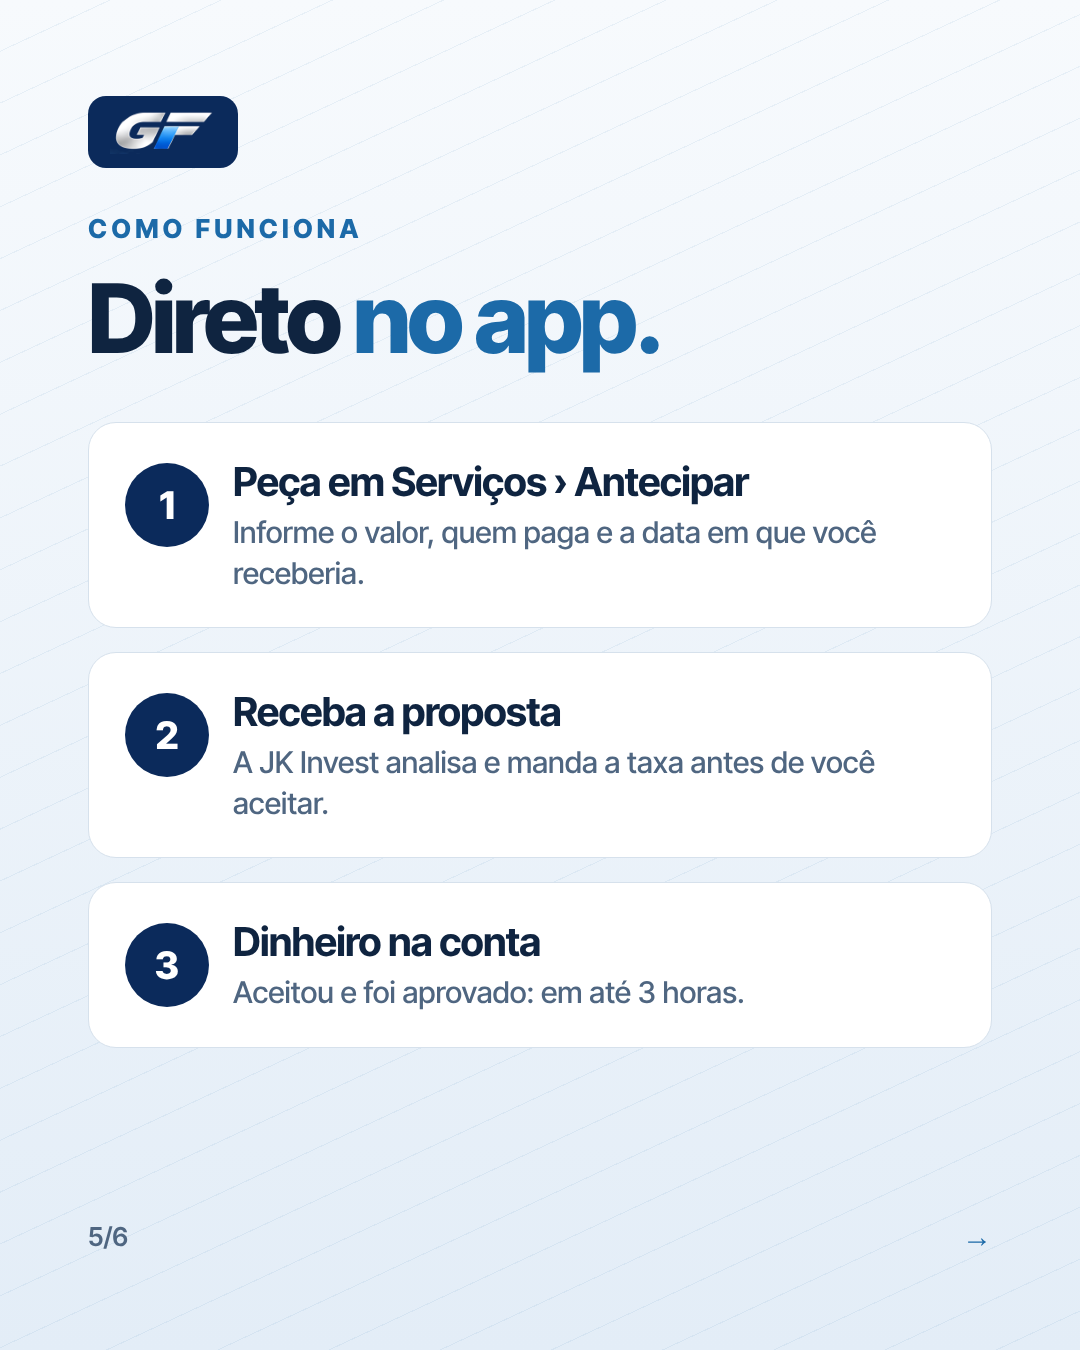
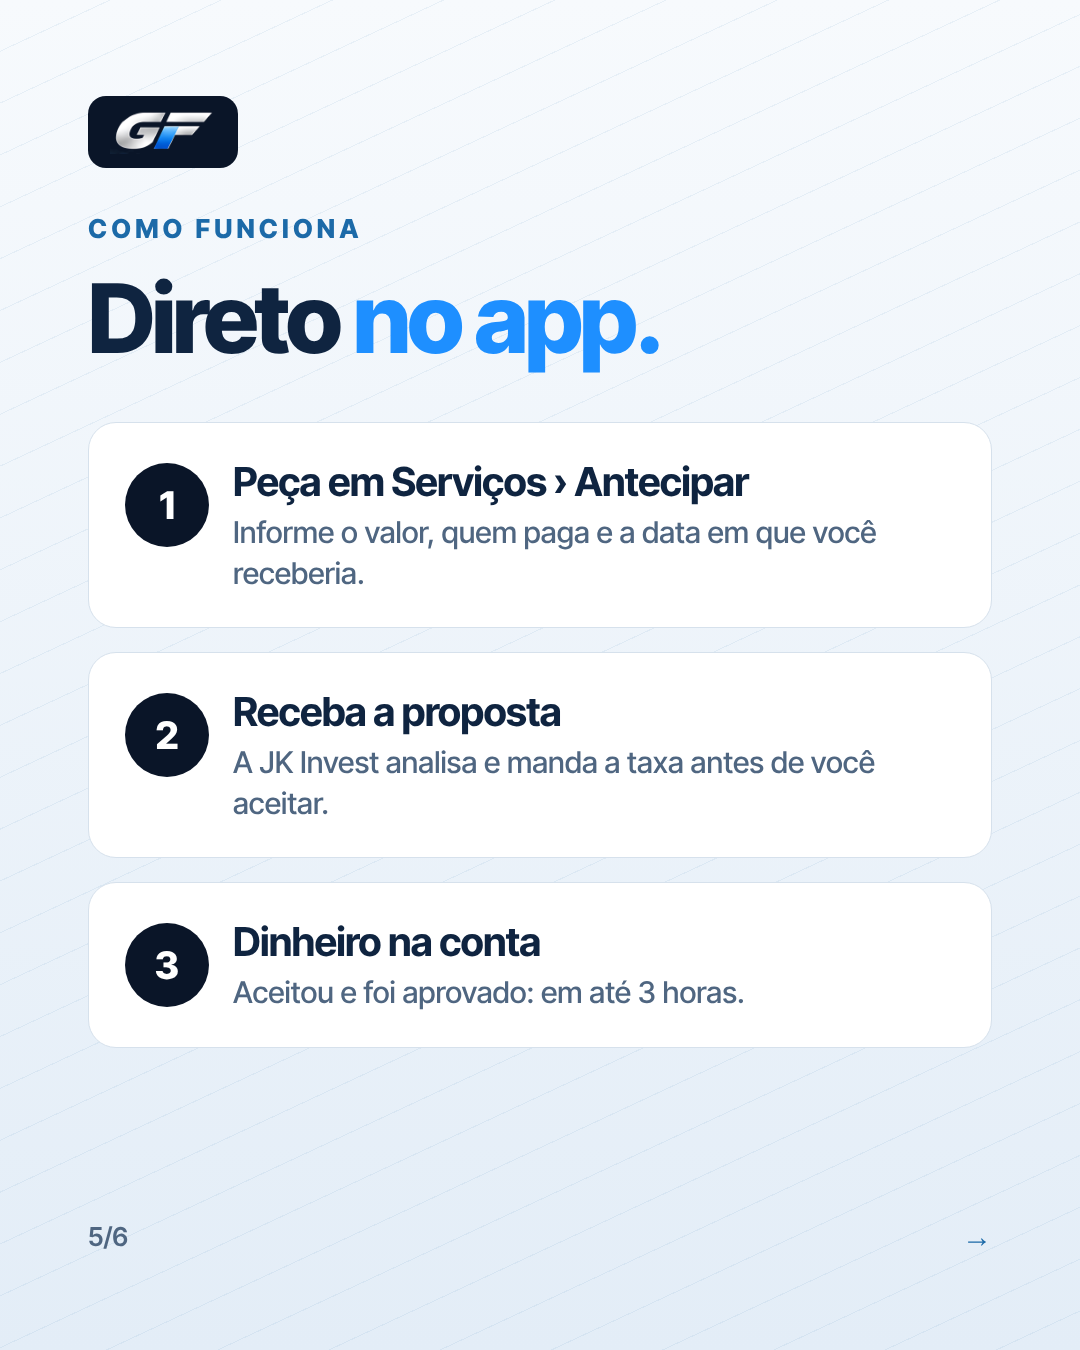
GF: carrosséis com os tons da arte 'Em breve'
Claude-Session: https://claude.ai/code/session_019ynR5H9rs9PHn6Xni4LVYt

diff --git a/guincho-facil/marketing/carrossel-antecipacao/carrossel.html b/guincho-facil/marketing/carrossel-antecipacao/carrossel.html
@@ -4,44 +4,44 @@
 *{box-sizing:border-box;margin:0}
 body{background:#333;font-family:'Inter Tight',system-ui,sans-serif}
 .s{width:1080px;height:1350px;position:relative;overflow:hidden;padding:96px 88px;display:flex;flex-direction:column}
-.esc{background:linear-gradient(180deg,#081f47,#0b2a5b);color:#fff}
+.esc{background:linear-gradient(180deg,#050b16,#081a36);color:#fff}
 .cla{color:#0f2440;background:repeating-linear-gradient(155deg,transparent 0 46px,rgba(28,106,168,.07) 46px 47px),linear-gradient(180deg,#f7fafd,#e3edf7)}
 .logo{height:64px;align-self:flex-start}
-.eye{font:800 26px/1 'Inter Tight';letter-spacing:.16em;text-transform:uppercase;color:#3cc4f7;margin:56px 0 28px}
+.eye{font:800 26px/1 'Inter Tight';letter-spacing:.16em;text-transform:uppercase;color:#5aa9ff;margin:56px 0 28px}
 .cla .eye{color:#1c6aa8}
 h1{font-weight:800;font-size:118px;line-height:.98;letter-spacing:-.045em}
 h2{font-weight:800;font-size:96px;line-height:1;letter-spacing:-.04em}
-em{font-style:normal;color:#0ac8fe}.cla em{color:#1c6aa8}
-p.l{font-size:38px;line-height:1.35;margin-top:36px;color:#dbe7f7;font-weight:500}.cla p.l{color:#2e4561}
-.pe{margin-top:auto;display:flex;justify-content:space-between;align-items:center;font:700 28px 'Inter Tight';color:#b4c8e6}
+em{font-style:normal;color:#1e8fff}.cla em{color:#1e8fff}
+p.l{font-size:38px;line-height:1.35;margin-top:36px;color:#d6e0ee;font-weight:500}.cla p.l{color:#2e4561}
+.pe{margin-top:auto;display:flex;justify-content:space-between;align-items:center;font:700 28px 'Inter Tight';color:#a9b8cf}
 .cla .pe{color:#4f6681}
-.pe b{color:#fff}.cla .pe b{color:#0b2a5b}
+.pe b{color:#fff}.cla .pe b{color:#0a1528}
 .n{font-weight:600;font-size:26px}
 .foto{position:absolute;inset:0;background:#050c1a url(../../public/assets/estrada-luz.jpg) center bottom/100% auto no-repeat}
-.foto+.vel{position:absolute;inset:0;background:linear-gradient(180deg,#071633 0%,#06122b 50%,rgba(5,12,26,.2) 72%,rgba(5,12,26,0) 100%)}
+.foto+.vel{position:absolute;inset:0;background:linear-gradient(180deg,#050b16 0%,#050b16 50%,rgba(5,12,26,.2) 72%,rgba(5,12,26,0) 100%)}
 .z{position:relative;display:flex;flex-direction:column;height:100%}
 .lista{margin-top:56px;display:grid;gap:22px}
 .lista div{background:#fff;border:1px solid #d6e1ec;border-radius:26px;padding:30px 34px;font:600 36px/1.25 'Inter Tight';display:flex;gap:22px;align-items:center;box-shadow:0 2px 6px rgba(11,42,91,.06)}
 .lista i{flex:none;width:18px;height:18px;border-radius:50%;background:#c2362b}
 .barras{margin-top:60px;display:grid;gap:40px}
-.barras div{border-left:8px solid #0ac8fe;padding:4px 0 4px 34px}
+.barras div{border-left:8px solid #1e8fff;padding:4px 0 4px 34px}
 .barras b{display:block;font-size:46px;letter-spacing:-.02em}
-.barras span{display:block;font-size:31px;line-height:1.35;color:#b4c8e6;margin-top:8px}
+.barras span{display:block;font-size:31px;line-height:1.35;color:#a9b8cf;margin-top:8px}
 .passos{margin-top:56px;display:grid;gap:24px}
 .passos>div{background:#fff;border:1px solid #d6e1ec;border-radius:28px;padding:34px 36px;display:grid;grid-template-columns:84px 1fr;gap:24px;align-items:start}
-.passos .num{width:84px;height:84px;border-radius:50%;background:#0b2a5b;color:#fff;display:grid;place-items:center;font:800 38px 'Inter Tight'}
+.passos .num{width:84px;height:84px;border-radius:50%;background:#0a1528;color:#fff;display:grid;place-items:center;font:800 38px 'Inter Tight'}
 .passos b{display:block;font-size:40px;letter-spacing:-.02em}
 .passos span{display:block;font-size:30px;line-height:1.35;color:#4f6681;margin-top:6px}
-.card{margin-top:56px;background:#163f81;border:1px solid #3b6db5;border-radius:34px;padding:42px}
-.card .top{display:flex;justify-content:space-between;color:#b4c8e6;font:600 28px 'Inter Tight'}
+.card{margin-top:56px;background:#0d1a30;border:1px solid #24406b;border-radius:34px;padding:42px}
+.card .top{display:flex;justify-content:space-between;color:#a9b8cf;font:600 28px 'Inter Tight'}
 .tag{background:rgba(255,197,97,.18);color:#ffc561;border-radius:999px;padding:6px 18px;font:700 24px 'Inter Tight'}
 .card h3{font-size:62px;letter-spacing:-.03em;margin:18px 0 6px}
-.card .meta{color:#b4c8e6;font-size:30px}
-.ped{margin-top:34px;background:#0b2a5b;border:2px solid rgba(10,200,254,.45);border-radius:26px;padding:32px;box-shadow:inset 8px 0 0 #0ac8fe}
-.ped b{font-size:40px;display:block}.ped span{font-size:28px;color:#b4c8e6;display:block;margin-top:8px}
+.card .meta{color:#a9b8cf;font-size:30px}
+.ped{margin-top:34px;background:#0a1528;border:2px solid rgba(30,143,255,.45);border-radius:26px;padding:32px;box-shadow:inset 8px 0 0 #1e8fff}
+.ped b{font-size:40px;display:block}.ped span{font-size:28px;color:#a9b8cf;display:block;margin-top:8px}
 .ped .d{margin-top:22px;display:flex;justify-content:space-between;align-items:center}
-.ped .d i{font-style:normal;background:rgba(10,200,254,.15);color:#3cc4f7;border-radius:999px;padding:8px 20px;font:700 28px 'Inter Tight'}
-.ped .d u{text-decoration:none;background:#0ac8fe;color:#062048;border-radius:16px;padding:14px 24px;font:800 28px 'Inter Tight'}
+.ped .d i{font-style:normal;background:rgba(30,143,255,.15);color:#5aa9ff;border-radius:999px;padding:8px 20px;font:700 28px 'Inter Tight'}
+.ped .d u{text-decoration:none;background:#1e8fff;color:#04101f;border-radius:16px;padding:14px 24px;font:800 28px 'Inter Tight'}
 .calc{margin-top:48px;background:#fff;border:1px solid #d6e1ec;border-radius:30px;padding:38px 40px;font-size:33px}
 .calc>div:not(.r){display:flex;justify-content:space-between;padding:13px 0;border-bottom:1px solid #e3ebf3}
 
@@ -52,22 +52,22 @@ p.l{font-size:38px;line-height:1.35;margin-top:36px;color:#dbe7f7;font-weight:50
 .ex{font:700 22px 'Inter Tight';letter-spacing:.12em;text-transform:uppercase;color:#1c6aa8}
 .cta{margin-top:56px;display:grid;gap:22px}
 .cta a{display:block;text-align:center;border-radius:24px;padding:34px;font:800 40px 'Inter Tight';text-decoration:none}
-.cta .p{background:#0ac8fe;color:#062048}.cta .s2{border:3px solid #3cc4f7;color:#fff}
+.cta .p{background:#1e8fff;color:#04101f}.cta .s2{border:3px solid #5aa9ff;color:#fff}
 .checks{margin-top:50px;display:grid;gap:26px}
-.checks div{font-size:34px;line-height:1.35;color:#dbe7f7;padding-left:60px;position:relative}
-.checks div::before{content:"✓";position:absolute;left:0;top:-2px;width:42px;height:42px;border-radius:50%;background:#0ac8fe;color:#062048;display:grid;place-items:center;font-weight:800;font-size:26px}
+.checks div{font-size:34px;line-height:1.35;color:#d6e0ee;padding-left:60px;position:relative}
+.checks div::before{content:"✓";position:absolute;left:0;top:-2px;width:42px;height:42px;border-radius:50%;background:#1e8fff;color:#04101f;display:grid;place-items:center;font-weight:800;font-size:26px}
 .checks b{color:#fff}
-.seta{font-size:30px;font-weight:700;color:#3cc4f7}
+.seta{font-size:30px;font-weight:700;color:#5aa9ff}
 .cla .seta{color:#1c6aa8}
-.selo{align-self:flex-start;background:#0b2a5b;border-radius:18px;padding:14px 22px;display:flex}.selo img{height:44px}
+.selo{align-self:flex-start;background:#0a1528;border-radius:18px;padding:14px 22px;display:flex}.selo img{height:44px}
 .cla .eye{margin-top:48px}
 </style></head><style>
-.grande{font-size:300px;line-height:.8;font-weight:800;letter-spacing:-.07em;color:#0ac8fe;text-shadow:0 0 90px rgba(10,200,254,.45);margin-top:40px}
+.grande{font-size:300px;line-height:.8;font-weight:800;letter-spacing:-.07em;color:#1e8fff;text-shadow:0 0 90px rgba(30,143,255,.45);margin-top:40px}
 .sub3h{font-size:56px;font-weight:800;line-height:1.08;letter-spacing:-.03em;margin-top:30px;max-width:17ch}
-.glow{position:absolute;inset:0;background:radial-gradient(700px 500px at 80% 10%,rgba(10,200,254,.25),transparent 65%)}
+.glow{position:absolute;inset:0;background:radial-gradient(700px 500px at 80% 10%,rgba(30,143,255,.25),transparent 65%)}
 .tres{margin-top:40px;display:grid;grid-template-columns:repeat(3,1fr);gap:18px}
-.tres div{background:#0b2a5b;color:#fff;border-radius:28px;padding:34px 20px;text-align:center;font:800 40px 'Inter Tight'}
-.tres small{display:block;font:600 22px 'Inter Tight';color:#b4c8e6;margin-top:8px}
+.tres div{background:#0a1528;color:#fff;border-radius:28px;padding:34px 20px;text-align:center;font:800 40px 'Inter Tight'}
+.tres small{display:block;font:600 22px 'Inter Tight';color:#a9b8cf;margin-top:8px}
 .ok{margin-top:40px;display:grid;gap:16px}
 .ok div{background:#fff;border:1px solid #d6e1ec;border-radius:22px;padding:24px 30px;font:600 34px 'Inter Tight';display:flex;gap:18px;align-items:center}
 .ok div::before{content:"✓";flex:none;width:44px;height:44px;border-radius:50%;background:#0e7448;color:#fff;display:grid;place-items:center;font-size:26px;font-weight:800}
@@ -75,8 +75,8 @@ p.l{font-size:38px;line-height:1.35;margin-top:36px;color:#dbe7f7;font-weight:50
 .ok div.nao{color:#c2362b}
 .sub{font:800 30px "Inter Tight";letter-spacing:.1em;text-transform:uppercase;color:#1c6aa8;margin-top:40px}
 .par{display:flex;align-items:center;gap:22px;margin-top:40px;font:800 44px 'Inter Tight'}
-.par span{color:#3cc4f7}
-.miudo{font-size:23px;line-height:1.4;color:#93add4;margin-top:28px}
+.par span{color:#5aa9ff}
+.miudo{font-size:23px;line-height:1.4;color:#8496b3;margin-top:28px}
 </style>
 <body>
 <section class="s esc"><div class="foto"></div><div class="vel"></div><div class="z">

diff --git a/guincho-facil/marketing/carrossel/carrossel.html b/guincho-facil/marketing/carrossel/carrossel.html
@@ -4,44 +4,44 @@
 *{box-sizing:border-box;margin:0}
 body{background:#333;font-family:'Inter Tight',system-ui,sans-serif}
 .s{width:1080px;height:1350px;position:relative;overflow:hidden;padding:96px 88px;display:flex;flex-direction:column}
-.esc{background:linear-gradient(180deg,#081f47,#0b2a5b);color:#fff}
+.esc{background:linear-gradient(180deg,#050b16,#081a36);color:#fff}
 .cla{color:#0f2440;background:repeating-linear-gradient(155deg,transparent 0 46px,rgba(28,106,168,.07) 46px 47px),linear-gradient(180deg,#f7fafd,#e3edf7)}
 .logo{height:64px;align-self:flex-start}
-.eye{font:800 26px/1 'Inter Tight';letter-spacing:.16em;text-transform:uppercase;color:#3cc4f7;margin:56px 0 28px}
+.eye{font:800 26px/1 'Inter Tight';letter-spacing:.16em;text-transform:uppercase;color:#5aa9ff;margin:56px 0 28px}
 .cla .eye{color:#1c6aa8}
 h1{font-weight:800;font-size:118px;line-height:.98;letter-spacing:-.045em}
 h2{font-weight:800;font-size:96px;line-height:1;letter-spacing:-.04em}
-em{font-style:normal;color:#0ac8fe}.cla em{color:#1c6aa8}
-p.l{font-size:38px;line-height:1.35;margin-top:36px;color:#dbe7f7;font-weight:500}.cla p.l{color:#2e4561}
-.pe{margin-top:auto;display:flex;justify-content:space-between;align-items:center;font:700 28px 'Inter Tight';color:#b4c8e6}
+em{font-style:normal;color:#1e8fff}.cla em{color:#1e8fff}
+p.l{font-size:38px;line-height:1.35;margin-top:36px;color:#d6e0ee;font-weight:500}.cla p.l{color:#2e4561}
+.pe{margin-top:auto;display:flex;justify-content:space-between;align-items:center;font:700 28px 'Inter Tight';color:#a9b8cf}
 .cla .pe{color:#4f6681}
-.pe b{color:#fff}.cla .pe b{color:#0b2a5b}
+.pe b{color:#fff}.cla .pe b{color:#0a1528}
 .n{font-weight:600;font-size:26px}
 .foto{position:absolute;inset:0;background:#050c1a url(../../public/assets/estrada-luz.jpg) center bottom/100% auto no-repeat}
-.foto+.vel{position:absolute;inset:0;background:linear-gradient(180deg,#071633 0%,#06122b 50%,rgba(5,12,26,.2) 72%,rgba(5,12,26,0) 100%)}
+.foto+.vel{position:absolute;inset:0;background:linear-gradient(180deg,#050b16 0%,#050b16 50%,rgba(5,12,26,.2) 72%,rgba(5,12,26,0) 100%)}
 .z{position:relative;display:flex;flex-direction:column;height:100%}
 .lista{margin-top:56px;display:grid;gap:22px}
 .lista div{background:#fff;border:1px solid #d6e1ec;border-radius:26px;padding:30px 34px;font:600 36px/1.25 'Inter Tight';display:flex;gap:22px;align-items:center;box-shadow:0 2px 6px rgba(11,42,91,.06)}
 .lista i{flex:none;width:18px;height:18px;border-radius:50%;background:#c2362b}
 .barras{margin-top:60px;display:grid;gap:40px}
-.barras div{border-left:8px solid #0ac8fe;padding:4px 0 4px 34px}
+.barras div{border-left:8px solid #1e8fff;padding:4px 0 4px 34px}
 .barras b{display:block;font-size:46px;letter-spacing:-.02em}
-.barras span{display:block;font-size:31px;line-height:1.35;color:#b4c8e6;margin-top:8px}
+.barras span{display:block;font-size:31px;line-height:1.35;color:#a9b8cf;margin-top:8px}
 .passos{margin-top:56px;display:grid;gap:24px}
 .passos>div{background:#fff;border:1px solid #d6e1ec;border-radius:28px;padding:34px 36px;display:grid;grid-template-columns:84px 1fr;gap:24px;align-items:start}
-.passos .num{width:84px;height:84px;border-radius:50%;background:#0b2a5b;color:#fff;display:grid;place-items:center;font:800 38px 'Inter Tight'}
+.passos .num{width:84px;height:84px;border-radius:50%;background:#0a1528;color:#fff;display:grid;place-items:center;font:800 38px 'Inter Tight'}
 .passos b{display:block;font-size:40px;letter-spacing:-.02em}
 .passos span{display:block;font-size:30px;line-height:1.35;color:#4f6681;margin-top:6px}
-.card{margin-top:56px;background:#163f81;border:1px solid #3b6db5;border-radius:34px;padding:42px}
-.card .top{display:flex;justify-content:space-between;color:#b4c8e6;font:600 28px 'Inter Tight'}
+.card{margin-top:56px;background:#0d1a30;border:1px solid #24406b;border-radius:34px;padding:42px}
+.card .top{display:flex;justify-content:space-between;color:#a9b8cf;font:600 28px 'Inter Tight'}
 .tag{background:rgba(255,197,97,.18);color:#ffc561;border-radius:999px;padding:6px 18px;font:700 24px 'Inter Tight'}
 .card h3{font-size:62px;letter-spacing:-.03em;margin:18px 0 6px}
-.card .meta{color:#b4c8e6;font-size:30px}
-.ped{margin-top:34px;background:#0b2a5b;border:2px solid rgba(10,200,254,.45);border-radius:26px;padding:32px;box-shadow:inset 8px 0 0 #0ac8fe}
-.ped b{font-size:40px;display:block}.ped span{font-size:28px;color:#b4c8e6;display:block;margin-top:8px}
+.card .meta{color:#a9b8cf;font-size:30px}
+.ped{margin-top:34px;background:#0a1528;border:2px solid rgba(30,143,255,.45);border-radius:26px;padding:32px;box-shadow:inset 8px 0 0 #1e8fff}
+.ped b{font-size:40px;display:block}.ped span{font-size:28px;color:#a9b8cf;display:block;margin-top:8px}
 .ped .d{margin-top:22px;display:flex;justify-content:space-between;align-items:center}
-.ped .d i{font-style:normal;background:rgba(10,200,254,.15);color:#3cc4f7;border-radius:999px;padding:8px 20px;font:700 28px 'Inter Tight'}
-.ped .d u{text-decoration:none;background:#0ac8fe;color:#062048;border-radius:16px;padding:14px 24px;font:800 28px 'Inter Tight'}
+.ped .d i{font-style:normal;background:rgba(30,143,255,.15);color:#5aa9ff;border-radius:999px;padding:8px 20px;font:700 28px 'Inter Tight'}
+.ped .d u{text-decoration:none;background:#1e8fff;color:#04101f;border-radius:16px;padding:14px 24px;font:800 28px 'Inter Tight'}
 .calc{margin-top:48px;background:#fff;border:1px solid #d6e1ec;border-radius:30px;padding:38px 40px;font-size:33px}
 .calc>div:not(.r){display:flex;justify-content:space-between;padding:13px 0;border-bottom:1px solid #e3ebf3}
 
@@ -52,14 +52,14 @@ p.l{font-size:38px;line-height:1.35;margin-top:36px;color:#dbe7f7;font-weight:50
 .ex{font:700 22px 'Inter Tight';letter-spacing:.12em;text-transform:uppercase;color:#1c6aa8}
 .cta{margin-top:56px;display:grid;gap:22px}
 .cta a{display:block;text-align:center;border-radius:24px;padding:34px;font:800 40px 'Inter Tight';text-decoration:none}
-.cta .p{background:#0ac8fe;color:#062048}.cta .s2{border:3px solid #3cc4f7;color:#fff}
+.cta .p{background:#1e8fff;color:#04101f}.cta .s2{border:3px solid #5aa9ff;color:#fff}
 .checks{margin-top:50px;display:grid;gap:26px}
-.checks div{font-size:34px;line-height:1.35;color:#dbe7f7;padding-left:60px;position:relative}
-.checks div::before{content:"✓";position:absolute;left:0;top:-2px;width:42px;height:42px;border-radius:50%;background:#0ac8fe;color:#062048;display:grid;place-items:center;font-weight:800;font-size:26px}
+.checks div{font-size:34px;line-height:1.35;color:#d6e0ee;padding-left:60px;position:relative}
+.checks div::before{content:"✓";position:absolute;left:0;top:-2px;width:42px;height:42px;border-radius:50%;background:#1e8fff;color:#04101f;display:grid;place-items:center;font-weight:800;font-size:26px}
 .checks b{color:#fff}
-.seta{font-size:30px;font-weight:700;color:#3cc4f7}
+.seta{font-size:30px;font-weight:700;color:#5aa9ff}
 .cla .seta{color:#1c6aa8}
-.selo{align-self:flex-start;background:#0b2a5b;border-radius:18px;padding:14px 22px;display:flex}.selo img{height:44px}
+.selo{align-self:flex-start;background:#0a1528;border-radius:18px;padding:14px 22px;display:flex}.selo img{height:44px}
 .cla .eye{margin-top:48px}
 </style></head><body>
 
